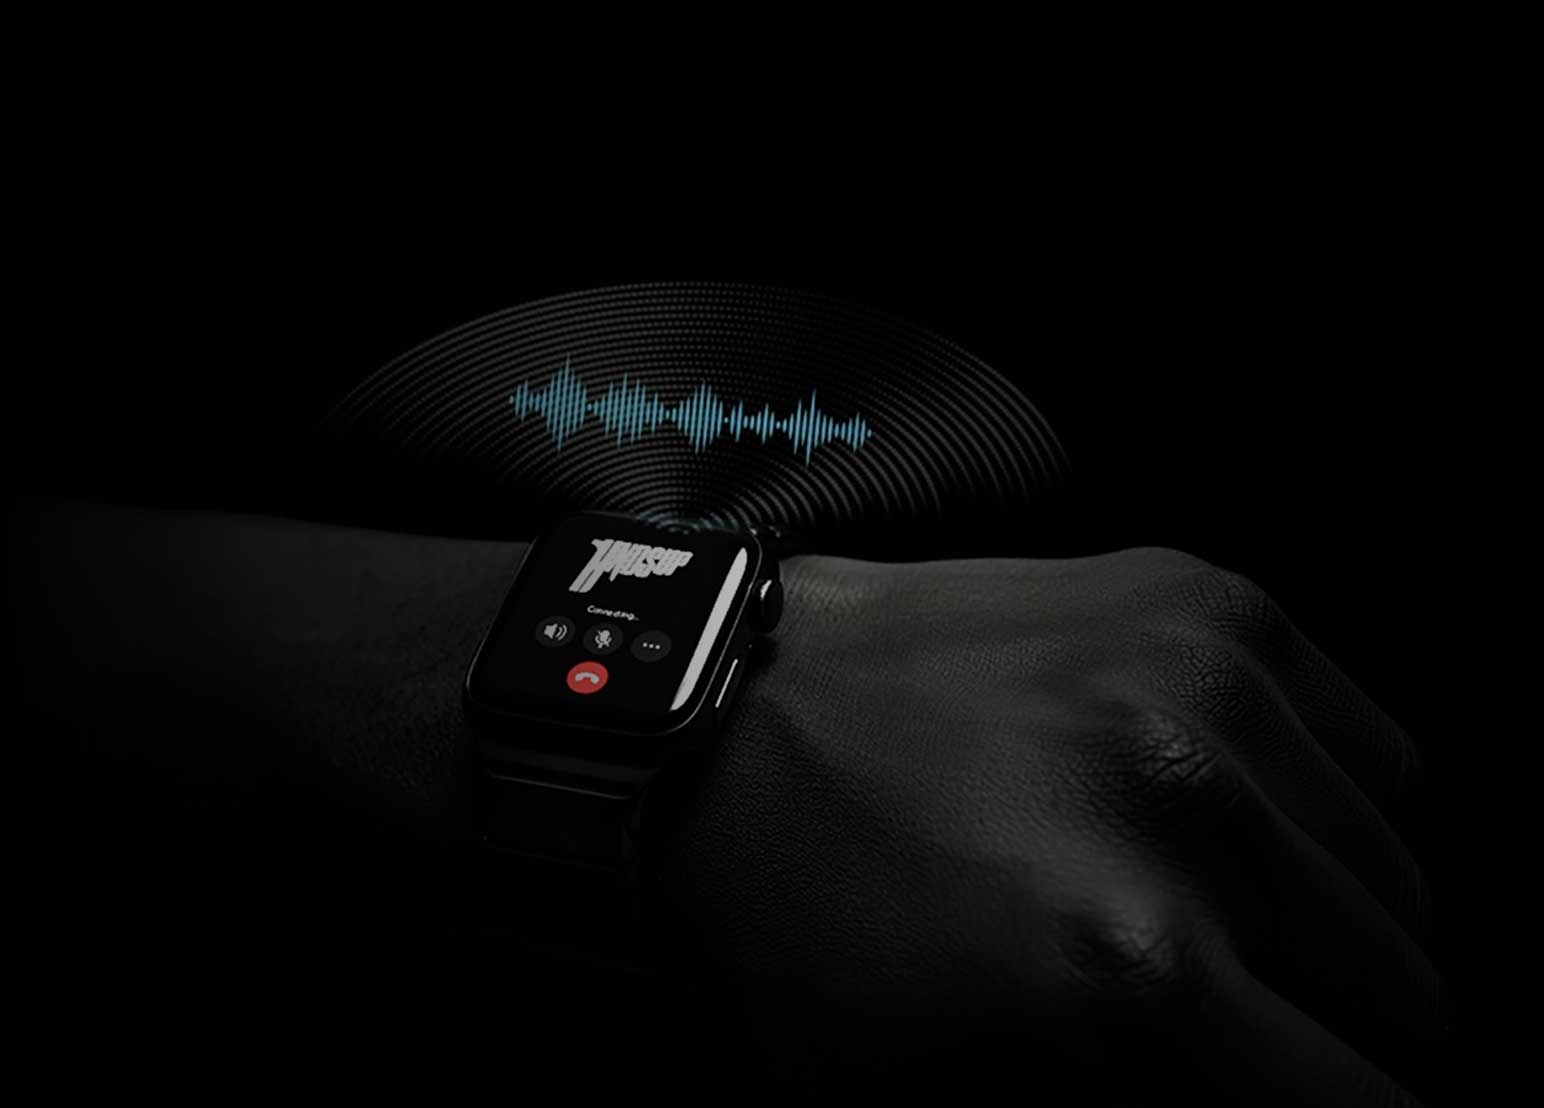
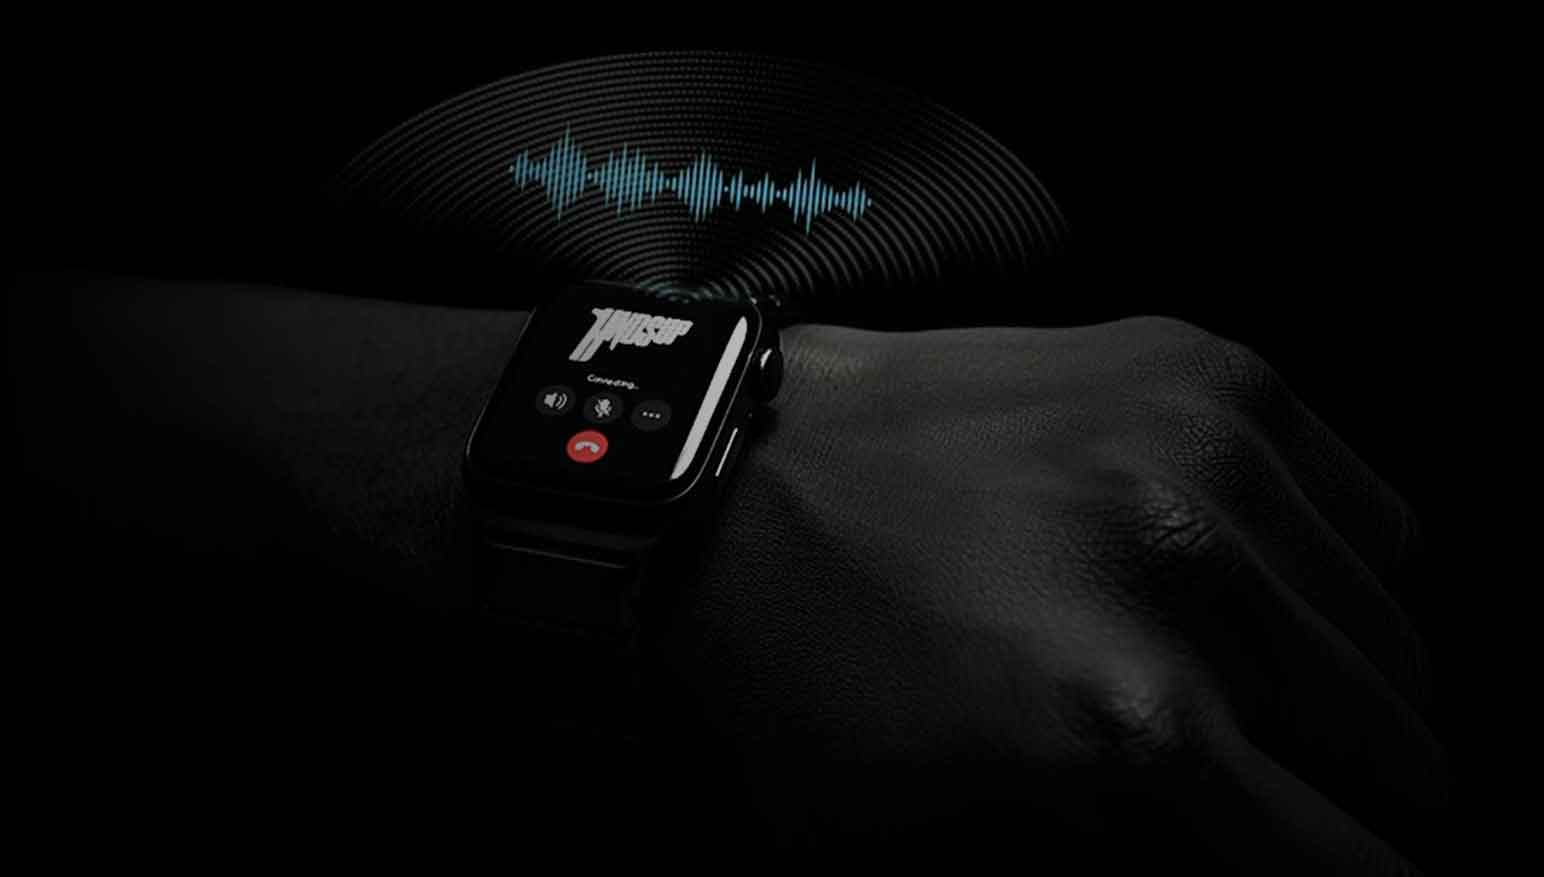
revisions internal 2

diff --git a/src/app/styles/components/takeaction.module.css b/src/app/styles/components/takeaction.module.css
@@ -8,25 +8,24 @@
     flex-direction: column;
     position: relative;
     width: 100%;
-    height: 90vh;
+    height: 100vh;
 }
 
 .takeActionImageContainer {
     width: 100%;
-    height: 100%;
+    height: auto;
     display: flex;
     justify-content: center;
     align-items: center;
     flex-direction: column;
     position: absolute;
     z-index: -1;
-    
+    top: 15%;
 }
 
 .takeActionImageContainer img {
-    width: 50%;
+    width: 60%;
     height: auto;
-    
 }
 
 .takeActionContainer h1 {
@@ -42,54 +41,12 @@
     margin-bottom: 1rem;
 }
 
-@media (max-width: 800px) {
-
-    .takeActionContainer {
-        justify-content: center!important;
-    }
-
-    .takeActionContainer h2 {
-        font-size: 1.5rem!important;
-        margin-bottom: 0;
-    }
-
-    .takeActionContainer p {
-        font-size: 0.75rem!important;
-        /* margin-bottom: 0.25rem!important; */
-    }
-
-    .donateContainer button {
-        max-width: 117px!important;
-    }
-
-    .takeActionContainer h1 {
-        font-size: 1.5rem!important;
-    }
-
-    .takeActionImageContainer {
-        top: 0;
-    }
-
-    .takeActionImageContainer img {
-        width: 100%;
-    }
-}
-
 .takeActionContainer p {
     font-family: var(--font-rational-tw-display-light);
-    
     color: #EBEBEB;
     position: relative;
     margin-bottom: 2rem;
 }
-
-/* .takeActionImage {
-    width: 50%;
-    height: auto;
-    position: absolute;
-    z-index: -1;
-    top: 50%;
-} */
 
 .takeActionContent {
     width: 90%;
@@ -101,18 +58,6 @@
     z-index: 1;
 }
 
-@media (max-width: 800px) {
-    .takeActionContent {
-        flex-direction: column;
-        width: 100%;
-    }
-
-    .takeActionContent div {
-        width: 90%!important;
-    }
-}
-
-
 .takeActionContent button {
     width: 100%;
     max-width: 187px;
@@ -123,7 +68,7 @@
     align-items: center;
     border: 1px solid #EDEDED;
     border-radius: 2rem;
-    padding: 0.875rem 1rem ;
+    padding: 0.875rem 1rem;
     background-color: transparent;
     color: #EBEBEB;
 }
@@ -142,11 +87,89 @@
 .donateContainer button {
     max-width: 117px;
     width: 100%;
-    height: 45px
+    height: 45px;
 }
 
 .writeLetterContainer button {
     max-width: 187px;
     width: 100%;
-    height: 45px
+    height: 45px;
+}
+
+.takeActionHeader {
+    width: 100%;
+    height: auto;
+    display: flex;
+    flex-direction: column;
+    justify-content: start;
+    align-items: center;
+    padding-bottom: 7rem;
+}
+
+@media (max-width: 1024px) {
+    .takeActionHeader {
+        flex-direction: column-reverse!important;
+    }
+}
+
+@media (max-width: 1024px) and (max-height: 1400px) {
+    .takeActionContainer {
+        justify-content: space-evenly!important;
+    }
+
+    .takeActionImageContainer {
+        top: 30%!important;
+    }
+}
+
+@media (max-width: 800px) {
+    .takeActionContainer {
+        justify-content: space-evenly!important;
+    }
+
+    .takeActionContainer h2 {
+        font-size: 1.5rem!important;
+        margin-bottom: 0;
+    }
+
+    .takeActionContainer p {
+        font-size: 0.75rem!important;
+        margin-bottom: 0.6rem!important;
+    }
+
+    .donateContainer button {
+        max-width: 117px!important;
+    }
+
+    .takeActionContainer h1 {
+        font-size: 1.5rem!important;
+    }
+
+    .takeActionImageContainer {
+        /* top: 10%!important; */
+    }
+
+    .takeActionImageContainer img {
+        width: 100%;
+    }
+
+    .takeActionContent {
+        flex-direction: column;
+        width: 100%;
+    }
+
+    .takeActionContent div {
+        width: 90%!important;
+        margin: 0 0 2.25rem 0!important;
+    }
+}
+
+@media (max-width: 430px) {
+    .takeActionImageContainer {
+        top: 20%!important;
+    }
+
+    .takeActionHeader {
+        padding-bottom: 1rem!important;
+    }
 }

diff --git a/src/app/components/Nav.js b/src/app/components/Nav.js
@@ -1,3 +1,4 @@
+"use client"
 import React, { useState, useRef, useEffect } from 'react';
 import Image from 'next/image';
 import styles from '../styles/components/nav.module.css';
@@ -53,22 +54,22 @@ export default function Nav({ scrollToSection, videoRef, productRef, statsRef, a
         }, 2500);
     };
 
-    // useEffect(() => {
-    //     const handleResize = () => {
-    //         if (window.innerHeight > 800) {
-    //             setState((prevState) => ({
-    //                 ...prevState,
-    //                 clicked: true
-    //             }));
-    //         }
-    //     };
+    useEffect(() => {
+        gsap.registerPlugin(ScrollTrigger);
 
-    //     window.addEventListener('resize', handleResize);
+        ScrollTrigger.create({
+            trigger: videoRef.current,
+            start: "top 50%",
+            end: "bottom 50%",
+            markers: true,
+            onLeave: () => {
+                gsap.to(logoSmallDesktopRef.current, { autoAlpha: 1, duration: 1, ease: 'Expo.easeOut' });
+            },
+        });
 
-    //     return () => {
-    //         window.removeEventListener('resize', handleResize);
-    //     };
-    // }, []);
+    }, [videoRef.current]);
+
+
 
     useEffect(() => {
         const tl = gsap.timeline();
@@ -78,16 +79,12 @@ export default function Nav({ scrollToSection, videoRef, productRef, statsRef, a
         }
         if (state.clicked === false) {
             setOpen(false);
-            tl.to(mobileButtons.current, { display: 'none', autoAlpha: 0, duration: 0.5, ease: 'Expo.easeOut' });
-            tl.to(smalllogo.current, { autoAlpha: 0, duration: 0.5, ease: 'Expo.easeOut' });
-            tl.to(mobileNavBg.current, { display: 'none', autoAlpha: 0, duration: 0.5, ease: 'Expo.easeOut' });
+            tl.to([mobileButtons.current, smalllogo.current, mobileNavBg.current], { display: 'none', autoAlpha: 0, duration: 2, ease: 'Expo.easeOut' });
             tl.set(navContainer.current, { css: { height: 'auto' } });
         } else if (state.clicked === true || (state.clicked === true && state.initial === null)) {
             setOpen(true);
             tl.set(navContainer.current, { css: { height: '100%' } });
-            tl.to(mobileNavBg.current, { display: 'flex', autoAlpha: 1, duration: 0.5, ease: 'Expo.easeOut' });
-            tl.to(smalllogo.current, { autoAlpha: 1, duration: 0.5, ease: 'Expo.easeOut' });
-            tl.to(mobileButtons.current, { display: 'flex', autoAlpha: 1, duration: 0.5, ease: 'Expo.easeOut' });
+            tl.to([mobileNavBg.current, smalllogo.current, mobileButtons.current], { display: 'flex', autoAlpha: 1, duration: 1, ease: 'Expo.easeOut' });
         }
     }, [state]);
 

diff --git a/src/app/components/ProductScroll.js b/src/app/components/ProductScroll.js
@@ -7,7 +7,6 @@ import productStyles from "../styles/components/productscroll.module.css";
 import "../globals.css";
 import ScrollNav from "./ScrollNav";
 import { Data } from "../data.js";
-import useIsomorphicLayoutEffect from '../helpers/useIsomorphicLayoutEffect';
 
 gsap.registerPlugin(ScrollTrigger, ScrollToPlugin);
 
@@ -133,9 +132,12 @@ export default function ProductScroll({ productRef }) {
 
         // Image sequence animation
         const images = [];
-        for (let i = 1; i <= 60; i++) {
+        const isMobile = window.innerWidth <= 900;
+        const imagePath = isMobile ? '/mobile' : '';
+
+        for (let i = 1; i <= 121; i++) {
             const img = new Image();
-            img.src = `https://dng-com.s3.amazonaws.com/clients/hndsup/images/panels/product/sequence/hndsup_${i}.jpg`;
+            img.src = `https://dng-com.s3.amazonaws.com/clients/hndsup/images/panels/product/sequence${imagePath}/hndsup_${i}.jpg`;
             images.push(img);
         }
 
@@ -149,11 +151,11 @@ export default function ProductScroll({ productRef }) {
         };
 
         const resizeCanvas = () => {
-            const aspectRatio = 1920 / 1080; // Replace with your canvas aspect ratio
+          const aspectRatio = isMobile ? 800 / 1080 : 1920 / 1080; // Replace with your canvas aspect ratio
             const containerWidth = canvas.parentElement.offsetWidth;
             const containerHeight = canvas.parentElement.offsetHeight;
 
-            if (window.innerWidth <= 800) {
+            if (isMobile) {
                 canvas.height = containerHeight;
                 canvas.width = canvas.height * aspectRatio;
             } else {
@@ -175,7 +177,7 @@ export default function ProductScroll({ productRef }) {
         const imageSequence = gsap.timeline({
             scrollTrigger: {
                 trigger: canvas,
-                start: window.innerWidth <= 800 ? "top-=150% top" : "top-=100% top",
+                start: window.innerWidth <= 900 ? "top-=150% top" : "top-=100% top",
                 end: "bottom+=20% top", // Adjust the duration as needed
                 scrub: true,
                 pin: true,

diff --git a/src/app/components/TakeAction.js b/src/app/components/TakeAction.js
@@ -10,10 +10,12 @@ export default function TakeAction({actionRef}) {
     return (
         <>
             <section className={actionStyles.takeActionContainer} ref={actionRef}>
-                <div className={actionStyles.takeActionImageContainer}>
-                    <Image src="/images/takeaction-bg.jpg" alt="takeaction" width={1544} height={1108} className={actionStyles.takeActionImage}/>
+                <div className={actionStyles.takeActionHeader}>
+                    <div className={actionStyles.takeActionImageContainer}>
+                        <Image src="/images/takeaction-bg.jpg" alt="takeaction" width={1544} height={877} className={actionStyles.takeActionImage}/>
+                    </div>
+                    <h1>TAKE ACTION</h1>
                 </div>
-                <h1>TAKE ACTION</h1>
                 <div className={actionStyles.takeActionContent}>
                     <div className={actionStyles.donateContainer}>
                         <h2>Donate</h2>

diff --git a/src/app/styles/page.module.css b/src/app/styles/page.module.css
@@ -58,6 +58,19 @@
   }
 }
 
+@media (max-width: 1024px) and (max-height: 1400px) {
+  .fistContainer  {
+    justify-content: center!important;
+  }
+
+}
+
+@media (max-width: 768px) and (max-height: 985px) {
+  .fistContainer  {
+    align-items: center!important;
+  }
+
+}
 
 .fistImage {
   transition: transform 0.3s ease-in-out;
@@ -115,6 +128,7 @@
 
   .fistMobile {
     display: flex;
+    width: 100%;
   }
 
   .fistContainer {
@@ -127,7 +141,7 @@
 
   .titleContainer {
     width: 90%!important;
-    max-width: 70%!important;
+    /* max-width: 70%!important; */
   }
 
   .heroVideo {
@@ -311,6 +325,9 @@
   height: auto;
 }
 
+.loadingLogo svg path {
+  opacity: 0;
+}
 
 /* Enable hover only on non-touch devices */
 @media (hover: hover) and (pointer: fine) {

diff --git a/src/app/styles/components/productscroll.module.css b/src/app/styles/components/productscroll.module.css
@@ -63,9 +63,10 @@
 
 @media (max-width: 800px) { 
     .imageSequence {
-      top: auto!important;
-      height: 100vh;
-      width: auto!important;
+      /* top: auto!important; */
+      height: auto!important;
+      width: 100%!important;
+      max-width: 800px!important;
     }
 
   }
